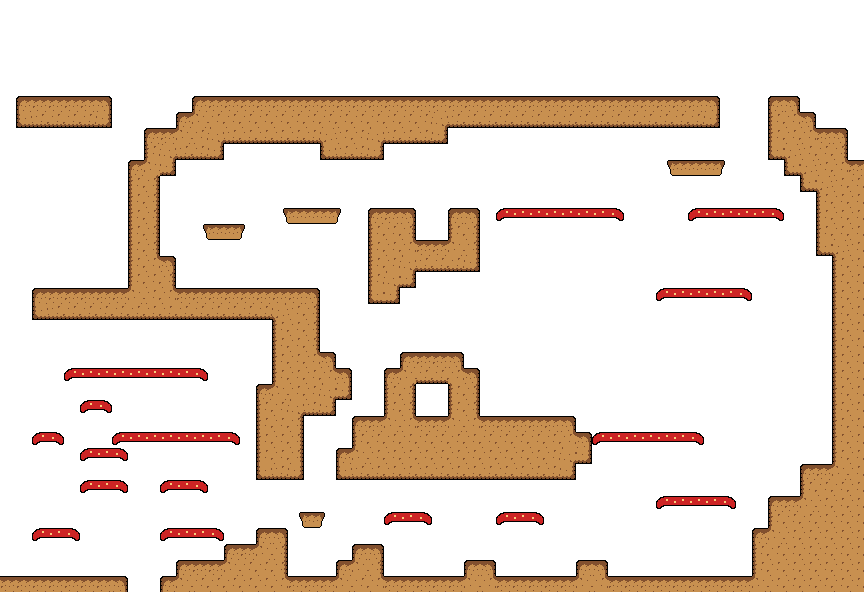
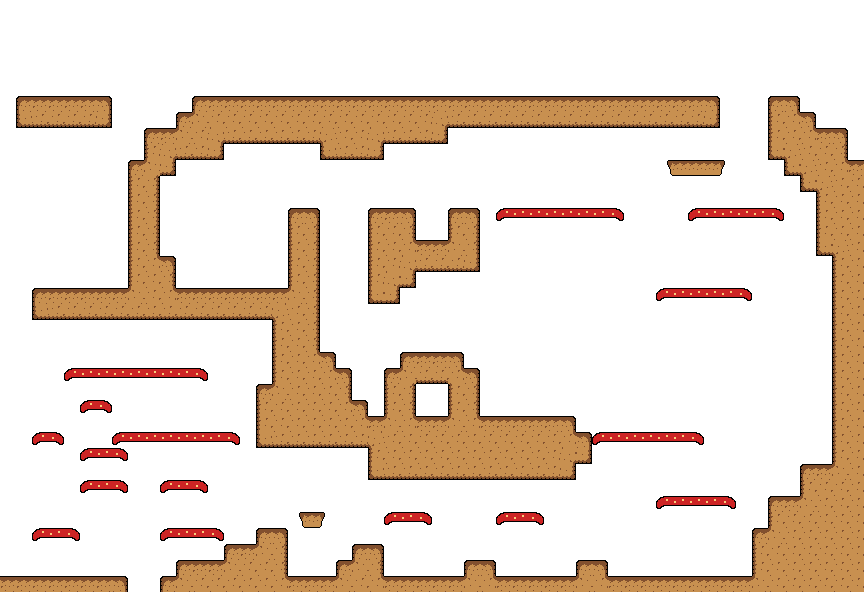
added wall jumping

Changed region(s): [[0.2812, 0.6689, 0.4375, 0.8209], [0.3125, 0.3345, 0.4062, 0.5169], [0.2188, 0.3649, 0.2812, 0.4257]]

diff --git a/scripts/platformer/player.py b/scripts/platformer/player.py
@@ -8,6 +8,8 @@ ACCEL_SPEED = 6
 DECCEL_SPEED = 6
 WALK_SPEED = 84
 JUMP_SPEED = 240
+WALLJUMP_X_SPEED = 120
+WALLJUMP_Y_SPEED = 200
 
 
 class Player(mobile.PhysicsSprite):
@@ -35,12 +37,14 @@ class Player(mobile.PhysicsSprite):
         self.pain_timer = timer.Timer(1000)
         self.pain_timer.finish()
         self.on_wall = False
+        self.from_wall = False
+        self.time_from_wall = 0
         self.time_on_wall = 0
         self.wall_direction = None
 
     @property
     def skidding(self):
-        return self.time_on_wall >= .1 and self.velocity.y >= 0
+        return self.time_on_wall >= .2 and self.velocity.y >= 0
 
     @property
     def below_rect(self):
@@ -81,6 +85,7 @@ class Player(mobile.PhysicsSprite):
         if direction == self.DIRECTION_RIGHT:
             self.on_wall = True
             self.wall_direction = self.DIRECTION_RIGHT
+        self.from_wall = False
 
     def on_fallout(self):
         self.health = 0
@@ -102,11 +107,11 @@ class Player(mobile.PhysicsSprite):
             ):
                 self.knife_pound()
             if self.state in {"idle", "walk", "jump", "skid"}:
-                if held_input["left"]:
+                if held_input["left"] and not self.from_wall:
                     self.walk_left()
-                if held_input["right"]:
+                if held_input["right"] and not self.from_wall:
                     self.walk_right()
-                if not held_input["left"] and not held_input["right"]:
+                if not held_input["left"] and not held_input["right"] and self.on_ground:
                     self.decelerate()
             else:
                 self.velocity.x = 0
@@ -155,6 +160,18 @@ class Player(mobile.PhysicsSprite):
         self.anim_dict[self.state].update(dt)
         self.anim_dict[self.state].flip_x = self.facing_left
         self.image = self.anim_dict[self.state].image
+        # push player into walls so they collide
+        if self.on_wall:
+            if self.wall_direction == self.DIRECTION_LEFT:
+                self.velocity.x -= ACCEL_SPEED / 3
+            if self.wall_direction == self.DIRECTION_RIGHT:
+                self.velocity.x += ACCEL_SPEED / 3
+        if self.from_wall:
+            self.time_from_wall += dt
+            if self.time_from_wall >= 0.5:
+                self.from_wall = False
+        if not self.from_wall:
+            self.time_from_wall = 0
         self.on_wall = False
         super().update(dt)
         if not self.on_wall:
@@ -206,6 +223,7 @@ class Player(mobile.PhysicsSprite):
     def jump(self, cause=JUMP_NORMAL):
         forced = cause in {self.JUMP_KNIFE, self.JUMP_PAIN, self.JUMP_BOOSTED}
         if forced or (self.on_ground and self.state in {"idle", "walk"}):
+            self.from_wall = False
             amp = {
                 self.JUMP_NORMAL: 1,
                 self.JUMP_PAIN: 1.1,
@@ -216,6 +234,14 @@ class Player(mobile.PhysicsSprite):
             self.on_ground = False
             self.on_downer = False
             self.jump_cause = cause
+        elif cause in {self.JUMP_NORMAL, self.JUMP_PAIN} and self.skidding:
+            if self.wall_direction == self.DIRECTION_RIGHT:
+                self.velocity.update(-WALLJUMP_X_SPEED, -WALLJUMP_Y_SPEED)
+            if self.wall_direction == self.DIRECTION_LEFT:
+                self.velocity.update(WALLJUMP_X_SPEED, -WALLJUMP_Y_SPEED)
+            self.on_wall = False
+            self.from_wall = True
+
 
     def duck(self):
         self.ducking = True
